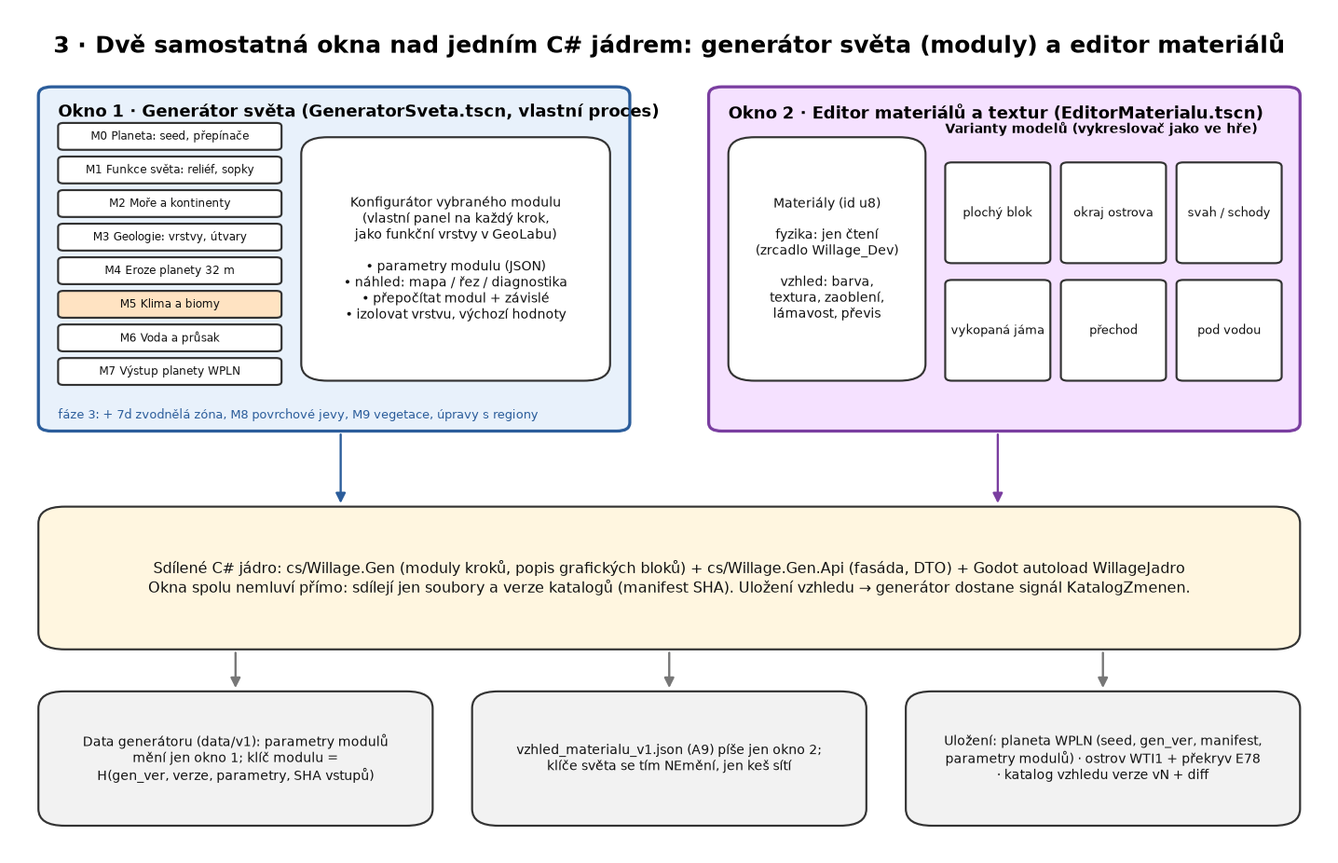
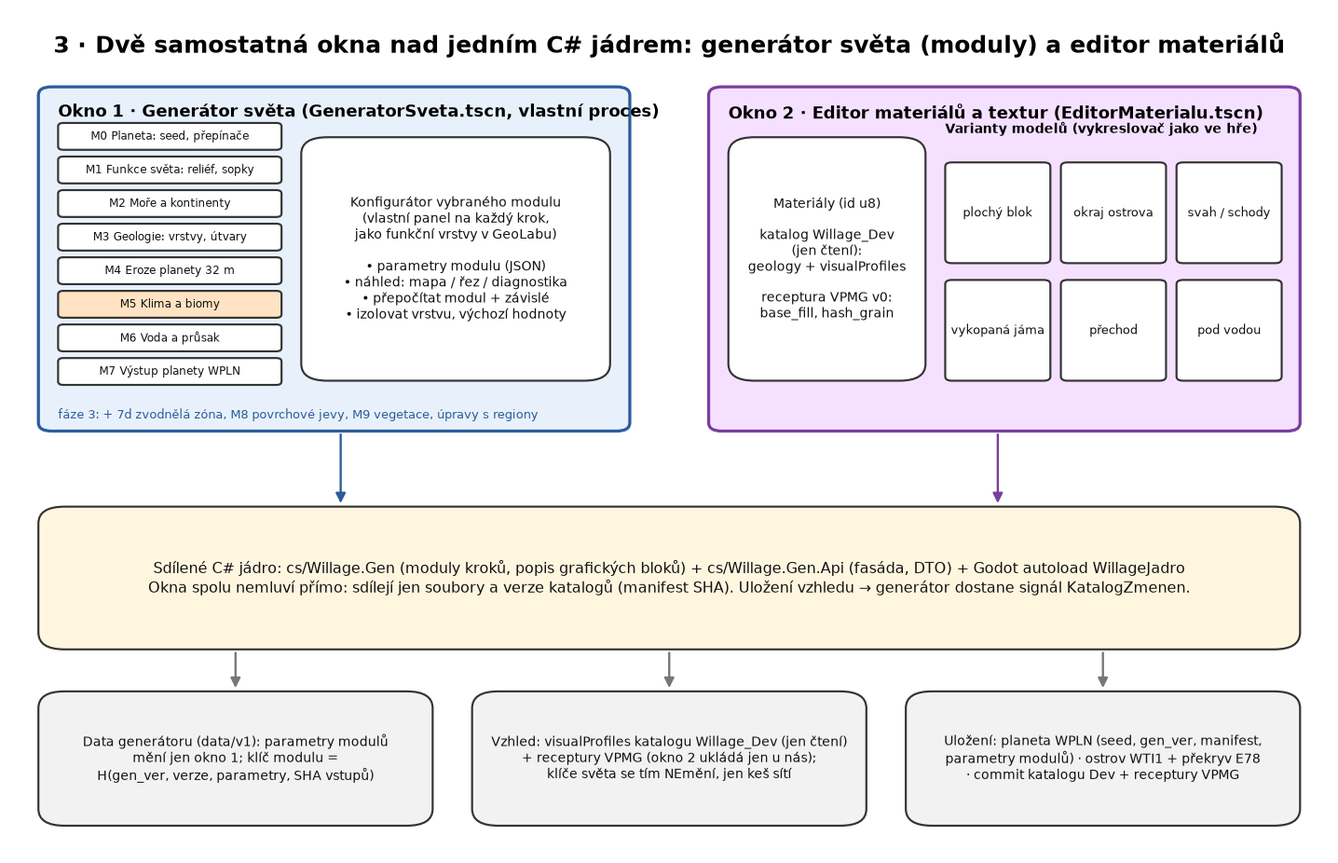
plan05 revize 3: editor materiálů nad katalogem a VPMG v0 z Willage_Dev (Jan 17:12), Dev jen čtení, sladění s Geology.Core G0, G-1 hotovo; N7, N8, R12, R13; obrázky 03/04

Changed region(s): [[0.5515, 0.2117, 0.6741, 0.3931], [0.3677, 0.8467, 0.6435, 0.9071], [0.7354, 0.8769, 0.9192, 0.9071]]

diff --git a/docs/sjednoceni/obrazky/plan05/kresli_plan05.py b/docs/sjednoceni/obrazky/plan05/kresli_plan05.py
@@ -134,7 +134,7 @@ def obr3():
     # okno B
     box(ax, 0.53, 0.50, 0.45, 0.41, "", fc="#f5e1ff", ec="#7a3ea0", r=0.01, lw=1.8)
     ax.text(0.545, 0.89, "Okno 2 · Editor materiálů a textur (EditorMaterialu.tscn)", fontsize=10, weight="bold", va="top")
-    box(ax, 0.545, 0.56, 0.15, 0.29, "Materiály (id u8)\n\nfyzika: jen čtení\n(zrcadlo Willage_Dev)\n\nvzhled: barva,\ntextura, zaoblení,\nlámavost, převis", fc="#ffffff", fs=7.6)
+    box(ax, 0.545, 0.56, 0.15, 0.29, "Materiály (id u8)\n\nkatalog Willage_Dev\n(jen čtení):\ngeology + visualProfiles\n\nreceptura VPMG v0:\nbase_fill, hash_grain", fc="#ffffff", fs=7.6)
     vars_ = ["plochý blok", "okraj ostrova", "svah / schody", "vykopaná jáma", "přechod", "pod vodou"]
     for i, v in enumerate(vars_):
         x = 0.71 + (i % 3) * 0.088; y = 0.70 - (i // 3) * 0.14
@@ -147,8 +147,8 @@ def obr3():
         fc="#fff6e0", fs=8.6)
     arrow(ax, 0.25, 0.50, 0.25, 0.41, c="#2b5d9b"); arrow(ax, 0.75, 0.50, 0.75, 0.41, c="#7a3ea0")
     box(ax, 0.02, 0.03, 0.30, 0.16, "Data generátoru (data/v1): parametry modulů\nmění jen okno 1; klíč modulu =\nH(gen_ver, verze, parametry, SHA vstupů)", fc="#f2f2f2", fs=7.8)
-    box(ax, 0.35, 0.03, 0.30, 0.16, "vzhled_materialu_v1.json (A9) píše jen okno 2;\nklíče světa se tím NEmění, jen keš sítí", fc="#f2f2f2", fs=7.8)
-    box(ax, 0.68, 0.03, 0.30, 0.16, "Uložení: planeta WPLN (seed, gen_ver, manifest,\nparametry modulů) · ostrov WTI1 + překryv E78\n· katalog vzhledu verze vN + diff", fc="#f2f2f2", fs=7.8)
+    box(ax, 0.35, 0.03, 0.30, 0.16, "Vzhled: visualProfiles katalogu Willage_Dev (jen čtení)\n+ receptury VPMG (okno 2 ukládá jen u nás);\nklíče světa se tím NEmění, jen keš sítí", fc="#f2f2f2", fs=7.8)
+    box(ax, 0.68, 0.03, 0.30, 0.16, "Uložení: planeta WPLN (seed, gen_ver, manifest,\nparametry modulů) · ostrov WTI1 + překryv E78\n· commit katalogu Dev + receptury VPMG", fc="#f2f2f2", fs=7.8)
     for x in (0.17, 0.50, 0.83): arrow(ax, x, 0.24, x, 0.19, c="#777")
     fig.savefig(os.path.join(OUT, "03-propojeni-abc.png"), bbox_inches="tight"); plt.close(fig)
 
@@ -197,7 +197,7 @@ def obr4():
     # --- okno 2
     ax = axs[1]
     ax.add_patch(Rectangle((0, 0), 1, 0.95, fc="#fafafa", ec="#7a3ea0", lw=2))
-    box(ax, 0, 0.89, 1, 0.06, "  Editor materiálů a textur · katalog vzhledu v3 (návrh v4*) | [Validovat] [Diff] [Uložit]", fc="#e9ddf3", fs=8.3, ha="left", r=0)
+    box(ax, 0, 0.89, 1, 0.06, "  Editor materiálů · katalog Dev 3476488 + VPMG v0 | [Validovat] [Diff] [Uložit recepturu] [Návrh pro backend]", fc="#e9ddf3", fs=8.3, ha="left", r=0)
     box(ax, 0.01, 0.17, 0.25, 0.70, "", fc="#ffffff", r=0)
     ax.text(0.02, 0.85, "Materiály", fontsize=9, weight="bold")
     mats = [("1 ornice", "#7aa64a"), ("3 písek", "#e8d39a"), ("5 vápenec", "#d9d2c0"), ("6 žula", "#b59a9a"), ("7 čedič", "#5c6470"), ("57 jíl", "#c07a50")]
@@ -205,10 +205,10 @@ def obr4():
         y = 0.80 - i * 0.055
         if i == 2: ax.add_patch(Rectangle((0.015, y - 0.02), 0.24, 0.045, fc="#ffe3c2", ec="none"))
         ax.add_patch(Rectangle((0.02, y - 0.012), 0.03, 0.028, fc=c, ec="#555")); ax.text(0.06, y, n, fontsize=7.8, va="center")
-    ax.text(0.02, 0.44, "Vzhled: 5 vápenec", fontsize=8.3, weight="bold")
-    for i, p in enumerate(["barva #d9d2c0", "textura vapenec_vrst ▾", "zaoblení 0,2", "lámavost 0,7", "vrstvení na boku ☑"]):
+    ax.text(0.02, 0.44, "Receptura VPMG: 5", fontsize=8.3, weight="bold")
+    for i, p in enumerate(["profil default (Dev, čtení)", "s1 base_fill ☑ albedo", "s2 hash_grain ☑", "seed 49 · 64 px", "+ operace = návrh backendu"]):
         ax.text(0.02, 0.40 - i * 0.035, p, fontsize=7.4)
-    ax.text(0.02, 0.185, "fyzika: jen čtení (Willage_Dev)", fontsize=6.8, color="#a00")
+    ax.text(0.02, 0.185, "katalog i fyzika: jen čtení (Dev)", fontsize=6.8, color="#a00")
     ax.text(0.28, 0.855, "Varianty modelů (čtou stejný popis bloků jako hra)", fontsize=8.6, weight="bold")
     col = "#d9d2c0"; grass = "#8cbc5a"
     titles = ["plochý blok", "okraj ostrova", "svah / schody", "vykopaná jáma", "přechod s pískem", "pod vodou / mokrý"]
@@ -292,7 +292,7 @@ def obr5():
     ax.set_xlim(0, 1); ax.set_ylim(0, 1)
     ax.set_title("c) popis bloku (C#, bez Godotu)", fontsize=9.5)
     txt = ("PopisBloku 0,5 m:\n• hlavní materiál (id u8) + podíl\n• maska 8 podbuněk (bitová)\n• horní plocha: tráva / písek / voda\n"
-           "• hrany: převis trávy, útes,\n  okraj ostrova, šev bloku\n• profil vzhledu z katalogu (A9):\n  zaoblení, lámavost, textura\n• voda: hladina, vodopád\n\n→ stejné pro 3D sítě i 2D dlaždice")
+           "• hrany: převis trávy, útes,\n  okraj ostrova, šev bloku\n• profil vzhledu: visualProfiles\n  katalogu Dev + textura VPMG\n• voda: hladina, vodopád\n\n→ stejné pro 3D sítě i 2D dlaždice")
     ax.text(0.02, 0.95, txt, fontsize=8.6, va="top", bbox=dict(fc="#fff6e0", ec="#999"))
     # panel d: ostrov
     ax = fig.add_axes([0.02, 0.0, 0.96, 0.52]); ax.axis("off"); ax.set_aspect("equal")

diff --git a/docs/sjednoceni/05-plan-generator-editory.md b/docs/sjednoceni/05-plan-generator-editory.md
@@ -1,8 +1,17 @@
 # 05 – Implementační plán: generátor světa po modulech, editor materiálů a vizuální generátor
 
-Stav: **revize 2 po odpovědi Jana**, 2026-11-26 16:10 SEČ (revize 1 ze 14:30). Jde pořád jen o plán: nic se tu neimplementuje a nic dalšího se nerozhoduje. Zadání Jana z 13:47 („než se pustíš do implementace, chci vědět, jak to chceš postavit“), obrázky podle doplnění z 13:50, revize podle odpovědi z 15:58 ([pt981u]).
+Stav: **revize 3**, 2026-11-26 17:20 SEČ: editor materiálů staví na Willage_Dev (Jan 17:12), G-1 hotové (revize 2 z 16:10 schválená i s N1–N6 v 16:50, revize 1 ze 14:30). Jde pořád jen o plán: nic se tu neimplementuje a nic dalšího se nerozhoduje. Zadání Jana z 13:47 („než se pustíš do implementace, chci vědět, jak to chceš postavit“), obrázky podle doplnění z 13:50, revize podle odpovědi z 15:58 ([pt981u]).
 
 Navazuje na `04-implementace-generatoru.md` (kroky 1–14), kapitoly `01`–`03` a reporty v `reporty/`. Výchozí bod je `main` `e2d55d2` (tag `gen-v1-prusak`: klima 7 + 7b a průsak sloučené, testy 228/228). Krok 7c (hladina podle klimatu) běží na větvi `gen-v1-krok07c-hladina-klima` a tento plán do něj nezasahuje.
+
+### Revize 3: rozhodnutí Jana 17:12 a stav G-1
+- **Editor materiálů (fáze 2, E-2 až E-4) staví na sdíleném katalogu a VPMG z Willage_Dev `main`** (commit `3476488`, „Materials + VPMG v0“), **ne na vlastním `vzhled_materialu_v1.json`**:
+  - `src/Modules/World/Willage.World.Materials`: `Data/materials-catalog-v1.json` (schemaVersion 1, sekce `geology` = fyzika, `visualProfiles` = vzhled: `style`, `baseColor`, `grainScalePermille`, `layerDensityPermille`, `irregularityPermille`), loader, odvozené hodnoty;
+  - `src/Modules/World/Willage.World.Vpmg` (VPMG v0): receptura JSON (schemaVersion 1: `materialId`, `visualProfile`, `resolution`, kroky `id/type/enabled/params`), registr operací (v0: `base_fill`, `hash_grain` nad GeologyHash), deterministický runner, RGBA8 vrstvy, `tools/VpmgPreview` (materialId + seed + receptura → PNG). Ověřeno na boxu: golden `vpmg-golden-v1.json` (materiál 52, seed 0xC0FFEE00, 64 px) dává checksum 1756279408.
+  - **Willage_Dev je pro nás jen ke čtení.** Nové operace VPMG (šum, vrstvy, kořeny, praskliny, vlhkost …) se navrhují Willage-backendu, sami je do Dev nepíšeme.
+- Na později (sladění fasády G-3): větev Dev `cursor/geology-g0-g1-1ce6` (`29bffc0`) – `Willage.World.Geology.Core` G0: fixed-point 2⁻¹⁶ m (`FxQ16`), torus planety (`PlanetTorus`, `TorusWrap`), celočíselný hash, bez `float`/`double`. Náš `Jadro/Q16.cs` a `GeologyHash` mají stejný účel.
+- Inspirace (ne směr): `reference/material-generator-inspirace-2026-11-26.png` – skupiny parametrů (základní vzhled, struktura, vrstvení, organika, praskliny, vlhkost), přednastavení (šablony), náhled řezu vrstvami a ukázky variací se stejným profilem a jiným seedem.
+- **G-1 hotové** na větvi `gen-v1-g1-moduly` (PROP a výsledky `reporty/g1-moduly-prop.md`): moduly M0–M7, pipeline, manifest katalogů (15 souborů, SHA), klíče modulů; testy 307/0, otisky `9d4f2b8` beze změny. Graf v kódu: M3 geologie a M4 eroze jsou souběžné větve za M2 (ne řetěz M2 → M3 → M4); M6 obaluje i dobití hladiny 7c.
 
 ### Rozhodnutí Jana k revizi 1 (2026-11-26 15:58, [pt981u])
 „Hele asi souhlasím, nejdřív bych ten generátor postavil na tom co máme a až pak přidával vylepšení. Generátor světa a generátor textur/editor materiálu chci odděleně, klidně jako samostatná okna. U grafického editoru bude několik variant modelu na kterých se to bude reprezentovat. Generátor světa bych asi postavil po modulech. To znamená tak jak máme teď rozvržené kroky tak bych pro ně vytvořil konfigurátory. Jako to dělalo Lovable tam byli ale zvlášť jednotlivé funkční vrstvy.“
@@ -49,7 +58,7 @@ Obrázky (zdroj `obrazky/plan05/kresli_plan05.py`, jen ilustrace):
 ## 2. Jak rozumím zadání (po revizi 2)
 
 - **A – generátor světa po modulech (okno 1).** Celý řetězec geologie → eroze → klima a biomy → voda → hotová planeta → blueprinty (bloky 128 m) → výřezy → ostrov. **Každý stávající krok je modul s vlastním konfigurátorem**: parametry, náhled, izolace vrstvy, přepočet sebe a závislých. Je to obdoba funkčních vrstev v GeoLabu, ale nad naší funkcí světa. Předherní úpravy s regiony (7b) a nové kroky přijdou až ve fázi 3.
-- **B – editor materiálů a generátor textur (okno 2, samostatné).** Vzhled materiálu (A9: barva, textura, zaoblení, lámavost, vrstvení, převis) se ukazuje na **několika variantách modelů** (plochý blok, okraj ostrova, svah, vykopaná jáma, přechod, pod vodou). Fyzika materiálů je zrcadlo z Willage_Dev a jen se čte. Původní „konfigurátor katalogu terénu“ se tím rozdělil: generátorová data (pásma klimatu, pořadí hornin, šum hornin, moře, eroze, voda, průsak) edituje konfigurátor příslušného modulu v okně 1, vzhled edituje okno 2.
+- **B – editor materiálů a generátor textur (okno 2, samostatné).** Vzhled materiálu = **`visualProfiles` sdíleného katalogu Willage_Dev + receptura VPMG** (revize 3, Jan 17:12) a ukazuje se na **několika variantách modelů** (plochý blok, okraj ostrova, svah, vykopaná jáma, přechod, pod vodou). Fyzika i vzhled v katalogu jsou zrcadlo z Willage_Dev a jen se čtou; vlastní tabulka vzhledu se nezakládá. Původní „konfigurátor katalogu terénu“ se tím rozdělil: generátorová data (pásma klimatu, pořadí hornin, šum hornin, moře, eroze, voda, průsak) edituje konfigurátor příslušného modulu v okně 1, vzhled edituje okno 2.
 - **C – vizuální generátor.** Převod dat na obraz. Data 0,25 m, grafický blok 0,5 m, uvnitř je vidět 0,25 m (Jan 2026-11-22), pevný zoom 64 dlaždic, bez LOD (7.2), kawaii toon 3D s ručně malovanými texturami ve stylu Wakfu, převis trávy, vrstvená skalní hrana, visící kameny, vodopády do oblak, průhlednost a řez (7.3, výchozí vypnuto). Jeho jádro (popis grafických bloků a základní vykreslovač) vznikne jako první pro okno 2, protože varianty modelů vykresluje stejný kód jako hra.
 
 ---
@@ -145,13 +154,13 @@ flowchart LR
 
 ![propojení](obrazky/plan05/03-propojeni-abc.png)
 
-- **Společný datový model:** jedno `MaterialId` (u8) všude (1.6). Fyzika (K, pórovitost) je zrcadlo z Willage_Dev a jen se čte. Generátorová data jsou dnešní JSON a CSV v `data/v1` a mění je **jen konfigurátory modulů v okně 1**. Vzhled má vlastní tabulku `vzhled_materialu_v1.json` se stejným id (A9) a mění ji **jen okno 2**.
-- **Manifest katalogů** `manifest_katalogu_v1.json`: všechny soubory, které generátor čte (dnes 13), jejich SHA-256, verze schématu a role (fyzika / generátor / vzhled). Z manifestu se skládají klíče modulů a ověřuje se, že potvrzená planeta má stejná data. Opraví to dnešní neúplný klíč (`DataSveta.SouborySveta` zahrnuje jen 3 soubory).
+- **Společný datový model:** jedno `MaterialId` (u8) všude (1.6). Fyzika (K, pórovitost) je zrcadlo z Willage_Dev a jen se čte. Generátorová data jsou dnešní JSON a CSV v `data/v1` a mění je **jen konfigurátory modulů v okně 1**. Vzhled = `visualProfiles` v katalogu Willage_Dev (zrcadlo, jen čtení) + receptury VPMG; okno 2 receptury upravuje a ukládá **jen u nás** (`data/vpmg/receptury/*.json`, návrh), změny katalogu nebo nové operace jde jen navrhnout Willage-backendu (revize 3).
+- **Manifest katalogů** `manifest_katalogu_v1.json`: SHA-256 všech souborů v `godot-prototyp/data` (hotové v G-1: 15 souborů, z nich 12 čtou moduly; textová data CRLF → LF). Role (fyzika / generátor / vzhled) a verze schématu přibudou v G-2. Z manifestu se skládají klíče modulů a ověřuje se, že potvrzená planeta má stejná data. Opraví to dnešní neúplný klíč (`DataSveta.SouborySveta` zahrnuje jen 3 soubory).
 - **Klíče keše:** svět podle 3.3. Vizuální keš (sítě segmentu 8 m, náhledy variant) má klíč H(obsah vzorku, verze vzhledu, verze vykreslovače) a do světa nepatří, takže změna vzhledu nikdy nepřepočítá svět.
 - **Uložení:**
   - *planeta* `WPLN` v1 (Deflate jako WGER): magie, verze, `gen_ver`, seed, SHA manifestu (volitelně přibalené kopie generátorových souborů), kanonické parametry všech modulů, klíče modulů, příznak potvrzení. Ve fázi 3 přibude seznam úprav s regiony. Odvozené mapy (WGER, klima) se ukládají vedle jako keš.
   - *ostrov*: WTI1 (E88) s vloženími a překryvem E78, s odkazem na klíč M7 planety.
-  - *katalog vzhledu*: verze `vN` + diff. Potvrzená planeta si drží svou verzi manifestu (O4).
+  - *vzhled*: commit katalogu Dev (zrcadlo) + naše receptury VPMG v manifestu, diff receptur. Potvrzená planeta si drží svou verzi manifestu (O4).
 
 ---
 
@@ -182,11 +191,15 @@ Ve fázi 3 přibudou nové moduly (M8 povrchové jevy, M9 vegetace), každý s v
 
 ```
 EditorMaterialu (Control, jen propojuje)
-├─ HorniLista            verze katalogu vzhledu, Validovat, Diff, Uložit
-├─ SeznamMaterialu       78 id, barva, filtr podle skupiny (soil / rock / ore / …)
-├─ ParametryVzhledu      barva, textura, zaoblení, lámavost, vrstvení na boku, převis trávy, styl přechodu
-├─ FyzikaJenCteni        K, pórovitost, skupina (zrcadlo Willage_Dev)
-└─ MrizkaVariant         VariantaModelu × N (SubViewport + ortografická izometrická kamera)
+├─ HorniLista            commit katalogu Dev + SHA zrcadla, Validovat, Diff, Uložit recepturu (u nás), Export návrhu
+├─ SeznamMaterialu       materiály katalogu Dev (id, key, název, baseColor), filtr podle skupiny
+├─ ProfilVzhledu         visualProfiles (style, baseColor, grain / layerDensity / irregularity ‰) – jen čtení, změna = návrh
+├─ RecepturaVpmg         kroky receptury (typ z registru operací Dev, enabled, params), seed, rozlišení
+├─ Prednastaveni         šablony receptur (inspirace: „lesní / suchá / jílovitá hlína“)
+├─ FyzikaJenCteni        sekce geology katalogu (K, pórovitost, …)
+├─ NahledVrstev          RGBA8 vrstvy runneru (albedo, …) a řez vrstvami
+├─ VariaceSeedu          stejný profil, 4 seedy
+└─ MrizkaVariant         VariantaModelu × N (SubViewport + ortografická izometrická kamera, textura z VPMG)
 ```
 
 - **Varianty modelů** jsou malé **syntetické deterministické vzorky buněk 0,25 m** v knihovně (`Vizual/VzorkyVariant`). Vykreslí je **stejný vizuální generátor jako hru** (popis grafických bloků → síť), takže editor je zároveň zkušebna vykreslovače. Výchozí sada (O-N4):
@@ -197,8 +210,9 @@ EditorMaterialu (Control, jen propojuje)
   5. přechod s jiným materiálem (např. písek, duální mřížka povrchu),
   6. pod vodou / mokrý (dno průhledné vody).
   Později přibude osamocený kámen a shluk 2–6 buněk (skála, studie D). Nová varianta = nový vzorek, editor se nemění.
-- **Validace:** všech 78 id má profil, platné odkazy na textury, rozsahy parametrů. Diff ukáže změněné materiály. Klíče světa se tím nemění, zneplatní se jen vizuální keš.
-- Výchozí hodnoty vzhledu se převezmou z toho, co už máme (barvy `materialy.csv`, `mat.gd`, `poradi_hornin.json`, textury Gemini a toon shader prototypu). Nic se nevymýšlí znovu.
+- **Validace:** receptura projde parserem a registrem operací Dev (neznámý typ = chyba), rozsahy parametrů; zrcadlo katalogu má stejný obsah jako Dev v daném commitu (dnes se liší jen koncovým `\n`). Diff ukáže změněné receptury. Klíče světa se tím nemění, zneplatní se jen vizuální keš.
+- **VPMG v0 umí jen `base_fill` a `hash_grain`.** Skupiny z inspirace (vrstvení, organika, praskliny, vlhkost, akvarelové vykreslení) jsou zatím jen návrhy operací pro Willage-backend; editor je ukáže, až je backend přidá do registru. Barvy, které máme navíc (`materialy.csv`, `mat.gd`, textury Gemini, toon shader), se použijí jako podklad návrhu, ne jako vlastní katalog.
+- **Jak se kód Dev dostane k nám (N7):** Dev je net10.0 (Vogen, SharedKernel, analyzátory), klient net9.0. Doporučení: nejdřív VPMG mimo proces – nástroj z připnutého commitu Dev (`VpmgPreview` nebo malý CLI nad runnerem) vrací PNG / RGBA a checksum, okno 2 je jen zobrazuje; test golden 1756279408. Přímý odkaz na projekty Dev až po dohodě s backendem (balíček nebo net10 v klientu).
 
 ---
 
@@ -231,7 +245,7 @@ flowchart LR
     S0["S-0 spike: C# na Androidu"]
   end
   subgraph F2["Fáze 2 · editor materiálů (okno 2)"]
-    E1[E-1 popis grafických bloků] --> E2[E-2 tabulka vzhledu A9 z dnešních barev a textur] --> E3[E-3 vzorky variant modelů] --> E4[E-4 okno Editor materiálů + základní vykreslovač]
+    E1[E-1 popis grafických bloků] --> E2[E-2 zrcadlo katalogu Dev + VPMG v0 mimo proces] --> E3[E-3 vzorky variant modelů] --> E4[E-4 okno Editor materiálů + základní vykreslovač]
   end
   subgraph F3["Fáze 3 · vylepšení (každé s Janovým ano)"]
     D7["7d zvodnělá zóna + strop hladiny u pobřeží 60 m"] --> P7e[7e M8 povrchové jevy] --> P7f[7f M9 vegetace] --> U1[U-1 úpravy s regiony 7b] --> U2[U-2 částečný přepočet]
@@ -248,18 +262,18 @@ flowchart LR
 | Krok | Cíl | Vstupy → výstupy | Testy a měření | Odhad |
 |---|---|---|---|---|
 | **7c** *(běží)* | hladina podle klimatu a šrafa zvodnělé zóny podle svého PROP | PROP `krok07c-prop.md` | dle PROP | – |
-| **G-1** | moduly M0–M7 jako obal stávajících tříd, pipeline, `manifest_katalogu_v1.json`; `KonfiguraceSveta.Sestav` zůstane tenkým obalem | dnešní třídy → `Pipeline/`, `Katalogy/` | **otisky beze změny**, 228/228; klíč modulu se mění jen při změně jeho vstupu (test na každý soubor manifestu); 1 a 8 vláken shodně | 4–6 h |
+| **G-1** ✔ *(hotovo, `gen-v1-g1-moduly`, 307/0)* | moduly M0–M7 jako obal stávajících tříd, pipeline, `manifest_katalogu_v1.json`; `KonfiguraceSveta.Sestav` zůstane tenkým obalem | dnešní třídy → `Pipeline/`, `Katalogy/` | **otisky beze změny**, 228/228; klíč modulu se mění jen při změně jeho vstupu (test na každý soubor manifestu); 1 a 8 vláken shodně | 4–6 h |
 | **G-2** | schéma parametrů: atributy rozsah, jednotka, popis, skupina a prázdné pole `napoveda` (nápovědy až později, Jan 16:50) na stávajících recordech; JSON tam a zpět | `ParametrySveta`, `ParametryMore`, `ParametryEroze`, `ParametryKlimatu`, `ParametryVody`, průsak → schéma | načtení → uložení dá bajtově stejná data (nebo kanonicky shodná); každý parametr má rozsah a jednotku | 2–3 h |
-| **G-3** | fasáda `Willage.Gen.Api` (`IModuly`, `ISluzbaSveta`, `IDotazySveta`, `IKatalogy`) + soubor planety WPLN | moduly → DTO, soubor | CLI přes fasádu dá stejné otisky; uložit → načíst = bitově stejné; změněný manifest se pozná | 3–4 h |
+| **G-3** | fasáda `Willage.Gen.Api` (`IModuly`, `ISluzbaSveta`, `IDotazySveta`, `IKatalogy`) + soubor planety WPLN; typy souřadnic a hashe sladit s Dev Geology.Core G0 (fixed-point 2⁻¹⁶ m, torus, hash; větev `cursor/geology-g0-g1-1ce6`) | moduly → DTO, soubor | CLI přes fasádu dá stejné otisky; uložit → načíst = bitově stejné; změněný manifest se pozná | 3–4 h |
 | **G-4** | Godot jádro `WillageJadro`: fronta na pozadí, signály, převod map na textury | fasáda → autoload | headless: generace bez blokování hlavního vlákna (< 1 ms), zrušení, otisk shodný s CLI | 3–4 h |
 | **G-5** | okno 1: kostra (`SeznamModulu`, `KonfiguratorModulu` generovaný ze schématu, `RetezPrepoctu`, potvrzení, uložení) | G-2, G-4 → `nastroje/GeneratorSveta.tscn` | snímky; změna parametru → přepočet jen dotčených modulů; čas celé planety (~5–6 s) | 4–6 h |
 | **G-6** | náhledy a izolace M1 funkce světa, M2 moře, M3 geologie (řez) | G-5 | snímky náhledů, shoda náhledu s nástroji `Willage.Gen.Nastroje` | 4–5 h |
 | **G-7** | náhledy M4 eroze, M5 klima (tabulka pásem), M6 voda a průsak (řez s hladinou) | G-6 + nástroj řezu (z 7c) | snímky, shoda s reporty kroků 6–7 | 4–5 h |
 | **S-0** | spike: běží Godot .NET s `Willage.Gen` na Androidu (APK z E93) | – | sestavení, spuštění, čas vzorku segmentu na telefonu (Jan spustí) | 2–3 h |
 | **E-1** | popis grafických bloků 0,5 m z buněk 0,25 m | `VzorekOkna` → popisy | jednotkové testy masek, hran, převisu a okraje; determinismus; čas na okno 16 m | 3–4 h |
-| **E-2** | `vzhled_materialu_v1.json` (A9) předvyplněný z dnešních barev a textur, validace | 78 id → profil | všechna id mají profil; změna vzhledu nemění žádný klíč světa (test) | 2–3 h |
-| **E-3** | syntetické vzorky šesti variant modelů | – → `Vizual/VzorkyVariant` | deterministické, popis bloků každé varianty má očekávané hrany (okraj, převis, jáma) | 2–3 h |
-| **E-4** | okno 2 + základní vykreslovač (toon, triplanární textura, obrysy) | E-1 až E-3, G-4 → `nastroje/EditorMaterialu.tscn` | snímky všech variant pro 5 materiálů; trojúhelníky a čas sítě; uložení vzhledu → signál v okně 1 | 6–8 h |
+| **E-2** | zrcadlo katalogu Dev (`visualProfiles`) + napojení VPMG v0 mimo proces z připnutého commitu Dev; žádný vlastní `vzhled_materialu_v1.json` | katalog Dev, `tools/VpmgPreview` → `Vizual/ZdrojVpmg` | SHA zrcadla = Dev; golden 1756279408; každý materiál má profil `default`; změna receptury nemění žádný klíč světa (test) | 2–3 h |
+| **E-3** | syntetické vzorky šesti variant modelů s texturou z VPMG | – → `Vizual/VzorkyVariant` | deterministické, popis bloků každé varianty má očekávané hrany (okraj, převis, jáma); stejná receptura + seed = stejný checksum | 2–3 h |
+| **E-4** | okno 2: receptura VPMG (jen operace z registru Dev), přednastavení, náhled vrstev a řezu, variace seedu, mřížka variant + základní vykreslovač (toon, obrysy) | E-1 až E-3, G-4 → `nastroje/EditorMaterialu.tscn` | snímky všech variant pro 5 materiálů; trojúhelníky a čas sítě; uložení receptury jen u nás; export návrhu pro backend | 6–8 h |
 | **7d** | zvodnělá zóna šířením průsaku od zdrojů (moře, řeky, prameny, oázy, vodníci); **oprava hladiny u pobřeží: u břehu jen strop na hladině moře 60 m** (Jan [pt981u]); hladina ze spádu jen pro umístění pramenů (t977u) | `PrusakDosah`, `PobrezniPas`, 7c → výstup M6 | řezy poušť a mírné pobřeží; „díra se zaplní jen v zóně“; pevninská hladina u břehu nikde pod 60 m kvůli mořskému dnu; vypnuto = beze změny | 3–5 h |
 | **7e** | M8 povrchové jevy jako funkce (písek, duny, sníh, led, zamrzání; jen světová část) s vlastním konfigurátorem | M5, M6 | nezávislost reliéfu, determinismus | 4–6 h |
 | **7f** | M9 vegetace jako funkce s vlastním konfigurátorem | M1–M8 | hustota na m², žádný holý biom, nic v tůních | 3–5 h |
@@ -282,7 +296,9 @@ Po U-2 pokračuje plán 04 krokem 8 (výřezy) a dál; krok 14 (prezentace) se r
 | R5 | determinismus napříč vlákny a platformami | rozdílné planety na telefonu a serveru | testy 1 / 8 vláken, golden vectors |
 | R6 | 2D / 3D (7.1) | přepracování vykreslovače | popis bloků nezávislý na rendereru |
 | R7 | trojúhelníky při 0,25 m na telefonu (E93: 269 tis. ještě s 0,5 m) | fps | síť po grafických blocích 0,5 m, slučování ploch, V-4 |
-| R8 | rozjetí katalogu s Willage_Dev | jiná fyzika na serveru | fyziku jen číst, změny jako návrh backendu |
+| R8 | rozjetí katalogu s Willage_Dev | jiná fyzika i vzhled na serveru | katalog jen číst; zrcadlo s commitem Dev a testem SHA; změny jako návrh backendu |
+| R12 | VPMG v0 má jen 2 operace, nové přidává jen backend | editor ukáže málo, čeká se na backend | návrhy operací posílat brzy (podle skupin z inspirace), editor bere registr dynamicky |
+| R13 | Dev net10.0 + Vogen, klient net9.0 (Godot) | nejde přímo odkazovat projekty | VPMG mimo proces z připnutého commitu; sjednocení verze s backendem (N7) |
 | R9 | souběžné větve konfliktují v `DENIK.md`, `TODO.md` a seznamu testů | zdržení merge | zápis do vlastních oddílů, seznam testů po souborech |
 | R10 | generovaný konfigurátor je pro složité parametry nepohodlný | UX | vlastní prvky jen pro tabulky (pásma, pořadí hornin) |
 | R11 | dvě okna nad stejnými soubory (souběžný zápis) | rozbitý katalog | každé okno píše jen své soubory; zápis atomicky (dočasný soubor + přejmenování), SHA v manifestu |
@@ -324,13 +340,15 @@ Po U-2 pokračuje plán 04 krokem 8 (výřezy) a dál; krok 14 (prezentace) se r
 | O11 | návrh fasády poslat Willage-backendu jen k připomínkám | souhlas |
 | O12 | pořadí | **změněno:** nejdřív fáze 1 (obal stávajícího), pak fáze 2, vylepšení až ve fázi 3 |
 
-### 11.2 Nové otázky (revize 2), u každé moje doporučení
+### 11.2 Otázky revize 2 (N1–N6 schválené 16:50) a nové otázky revize 3 (N7, N8), u každé moje doporučení
 1. **N1 – Jeden Godot projekt, nebo samostatné projekty?** *Doporučení:* jeden projekt `godot-prototyp` se dvěma samostatnými hlavními scénami v `nastroje/` (vlastní procesy a okna) a hrou jako třetí scénou. Sdílí C# jádro a data a nic se neduplikuje.
 2. **N2 – Rozdělení modulů M0–M7** podle tabulky 3.3 (funkce světa, moře a kontinenty, geologie, eroze, klima, voda a průsak, výstup)? *Doporučení:* ano. Pořadí odpovídá výpočtu v kódu (moře je součást povrchu před geologií).
 3. **N3 – Konfigurátor generovaný ze schématu parametrů** a vlastní prvky jen pro tabulky? *Doporučení:* ano. Nový parametr se pak v panelu objeví sám.
 4. **N4 – Sada variant modelů** (plochý blok, okraj ostrova, svah a schody, vykopaná jáma, přechod materiálů, pod vodou; později kámen a shluk)? *Doporučení:* ano, šest variant pro začátek.
 5. **N5 – Edituje okno 2 jen vzhled, nebo i herní sloupce tabulky materiálů** (název, rarita, nástroj)? *Doporučení:* zatím jen vzhled a ostatní jen ukazovat. Herní sloupce až s jednou tabulkou materiálů (1.6).
 6. **N6 – Pořadí ve fázi 3:** 7d → 7e → 7f → úpravy s regiony → částečný přepočet, a souběžně vykreslovač ostrova V-1 až V-4? *Doporučení:* ano.
+7. **N7 – Jak používat kód Willage_Dev (net10.0) v klientu (net9.0)?** *Doporučení:* VPMG nejdřív mimo proces z připnutého commitu Dev (PNG / RGBA + checksum), přímý odkaz až po dohodě s backendem (balíček nebo net10 v klientu).
+8. **N8 – Kam ukládat naše receptury VPMG?** *Doporučení:* `godot-prototyp/data/vpmg/receptury/<materialId>.json` (schéma Dev, v manifestu), do Dev jen jako návrh přes Willage-backend.
 
 ---
 
@@ -339,6 +357,8 @@ Po U-2 pokračuje plán 04 krokem 8 (výřezy) a dál; krok 14 (prezentace) se r
 - Reporty `reporty/krok04.md`, `krok05-prop.md`, `krok06-prop.md` (čas eroze 5,1 s), `krok07b-prop.md`, `prusak-*-prop.md`; PROP 7c na větvi `gen-v1-krok07c-hladina-klima`.
 - `TODO.md` (otázky E83–E96, povrchové jevy), `DENIK.md`.
 - Kód `cs/Willage.Gen` (`Eroze/KonfiguraceSveta.cs`, `Eroze/SouborMapy.cs`, `Data/DataSveta.cs`, `Svet/SvetFn.cs`), `godot-prototyp/scripts/cs/most/VodaV1.cs`, `godot-prototyp/README.md` (uzly scény).
-- Odpověď Jana k revizi 1 (2026-11-26 15:58, [pt981u]).
+- Odpověď Jana k revizi 1 (2026-11-26 15:58, [pt981u]); schválení revize 2 a nápovědy parametrů (16:50, [pt982u]); rozhodnutí o editoru materiálů (17:12).
+- Willage_Dev `main` `3476488` (`Willage.World.Materials`, `Willage.World.Vpmg`, `tools/VpmgPreview`, `tests/Willage.World.Vpmg.Tests/Fixtures/vpmg-golden-v1.json`), větev `cursor/geology-g0-g1-1ce6` `29bffc0` (Geology.Core G0) – jen čtení.
+- Inspirace `reference/material-generator-inspirace-2026-11-26.png`; výsledky G-1 `reporty/g1-moduly-prop.md` (větev `gen-v1-g1-moduly`).
 - GeoLab `External data/V1` (`AGENTS.md`, `src/geology/events/types.ts`, `timeline.ts`).
 - Studie `skala-studie`, `trava-studie`, `napojeni-studie`, `tileset2d-studie`, `reference/okraj-ostrova-2026-11-22.jpg`.
